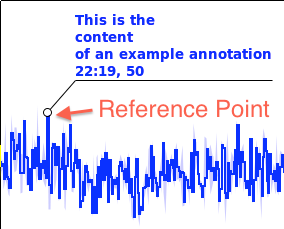
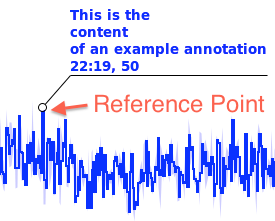
o.c.trends.databrowser: Align toolbar colors, update help
.. and fix toolbar buttons typed 'CHECK' instead of 'PUSH'

Changed region(s): [[0.0, 0.0, 1.0, 1.0]]

diff --git a/applications/plugins/org.csstudio.trends.databrowser2/doc/databrowser.html b/applications/plugins/org.csstudio.trends.databrowser2/doc/databrowser.html
@@ -36,7 +36,7 @@ Process Variables (PVs) as well as historic data in a Stripchart-type plot.
 
 </p>
 <div class='figure'>
-   <img src="DataBrowserSnapshot.png" width="90%"/>
+   <img src="DataBrowserSnapshot.png" width="95%"/>
    <p>
    Fig. 1: Data Browser Screenshot
    </p>
@@ -127,7 +127,7 @@ If it is not visible, right-click on the plot to open the context menu,
 then select "Show Toolbar".
 </p>
 <div class='figure'>
-   <img src="toolbar.png" width="397" height="32"/>
+   <img src="toolbar.png" width="365" height="28"/>
    <p>
    Fig. 2: Data Browser Plot Toolbar
    </p>
@@ -409,7 +409,7 @@ In addition to the reference point you can also move the content of an annotatio
 around the reference point.
 </p>
 
-<img src="annotation.png" width=284 height=229/>
+<img src="annotation.png" width=275 height=221/>
 
 <p>
 To edit the content of an annotation or to remove it,

diff --git a/applications/plugins/org.csstudio.swt.rtplot/src/org/csstudio/swt/rtplot/internal/ToolbarHandler.java b/applications/plugins/org.csstudio.swt.rtplot/src/org/csstudio/swt/rtplot/internal/ToolbarHandler.java
@@ -122,7 +122,6 @@ public class ToolbarHandler<XTYPE extends Comparable<XTYPE>>
     {
         addOptions();
         addZoom();
-        new ToolItem(toolbar, SWT.SEPARATOR);
         addMouseModes();
         additions_index = -toolbar.getItemCount();
         new ToolItem(toolbar, SWT.SEPARATOR);
@@ -195,7 +194,6 @@ public class ToolbarHandler<XTYPE extends Comparable<XTYPE>>
         rubber = newToolItem(SWT.CHECK, ToolIcons.ZOOM_IN, Messages.Zoom_In_TT);
         zoom_out = newToolItem(SWT.CHECK, ToolIcons.ZOOM_OUT, Messages.Zoom_Out_TT);
         pan = newToolItem(SWT.CHECK, ToolIcons.PAN, Messages.Pan_TT);
-        new ToolItem(toolbar, SWT.SEPARATOR);
         pointer = newToolItem(SWT.CHECK, ToolIcons.POINTER, Messages.Plain_Pointer);
 
         zoom_out.addSelectionListener(new SelectionAdapter()
@@ -274,7 +272,7 @@ public class ToolbarHandler<XTYPE extends Comparable<XTYPE>>
 
     private void addUndo()
     {
-        final ToolItem undo = newToolItem(SWT.CHECK, ToolIcons.UNDO, Messages.Undo_TT);
+        final ToolItem undo = newToolItem(SWT.PUSH, ToolIcons.UNDO, Messages.Undo_TT);
         undo.addSelectionListener(new SelectionAdapter()
         {
             @Override
@@ -284,7 +282,7 @@ public class ToolbarHandler<XTYPE extends Comparable<XTYPE>>
             }
         });
 
-        final ToolItem redo = newToolItem(SWT.CHECK, ToolIcons.REDO, Messages.Redo_TT);
+        final ToolItem redo = newToolItem(SWT.PUSH, ToolIcons.REDO, Messages.Redo_TT);
         redo.addSelectionListener(new SelectionAdapter()
         {
             @Override

diff --git a/applications/plugins/org.csstudio.swt.rtplot/src/org/csstudio/swt/rtplot/internal/EditAnnotationDialog.java b/applications/plugins/org.csstudio.swt.rtplot/src/org/csstudio/swt/rtplot/internal/EditAnnotationDialog.java
@@ -81,7 +81,7 @@ public class EditAnnotationDialog<XTYPE extends Comparable<XTYPE>> extends Dialo
         for (Annotation<XTYPE> annotation : annotations)
         {
             final TableItem item = new TableItem(annotation_list, SWT.NONE);
-            item.setText(new String[] { annotation.getTrace().getName(), annotation.getText().replaceAll("\n", "\\n") });
+            item.setText(new String[] { annotation.getTrace().getName(), annotation.getText().replaceAll("\n", "\\\\n") });
             item.setForeground(media.get(annotation.getTrace().getColor()));
             item.setChecked(true);
         }
